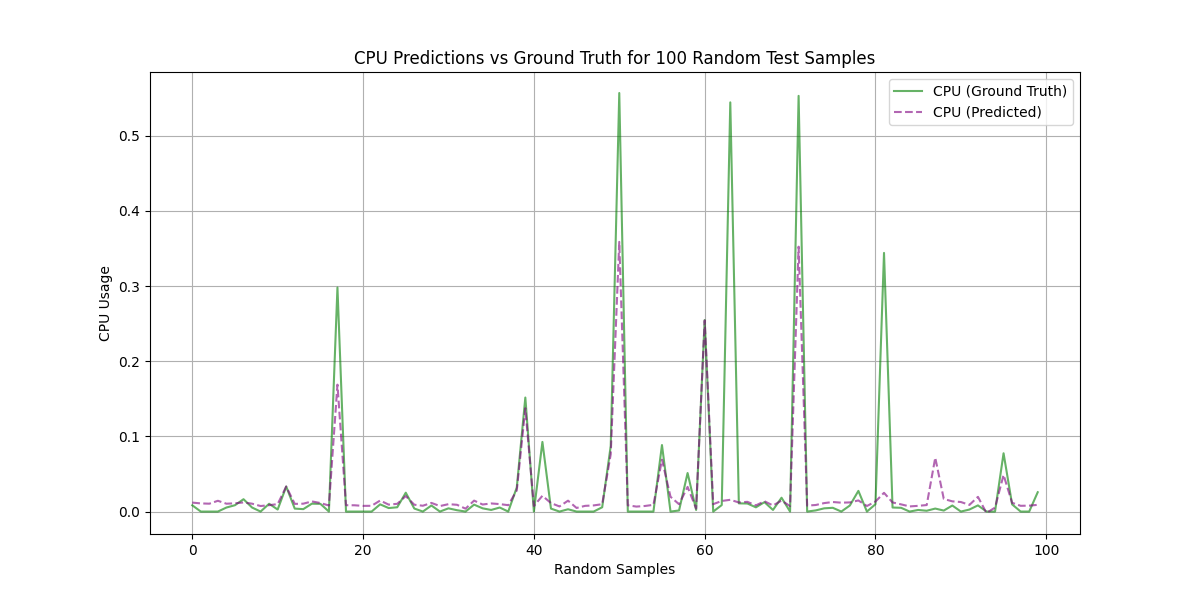
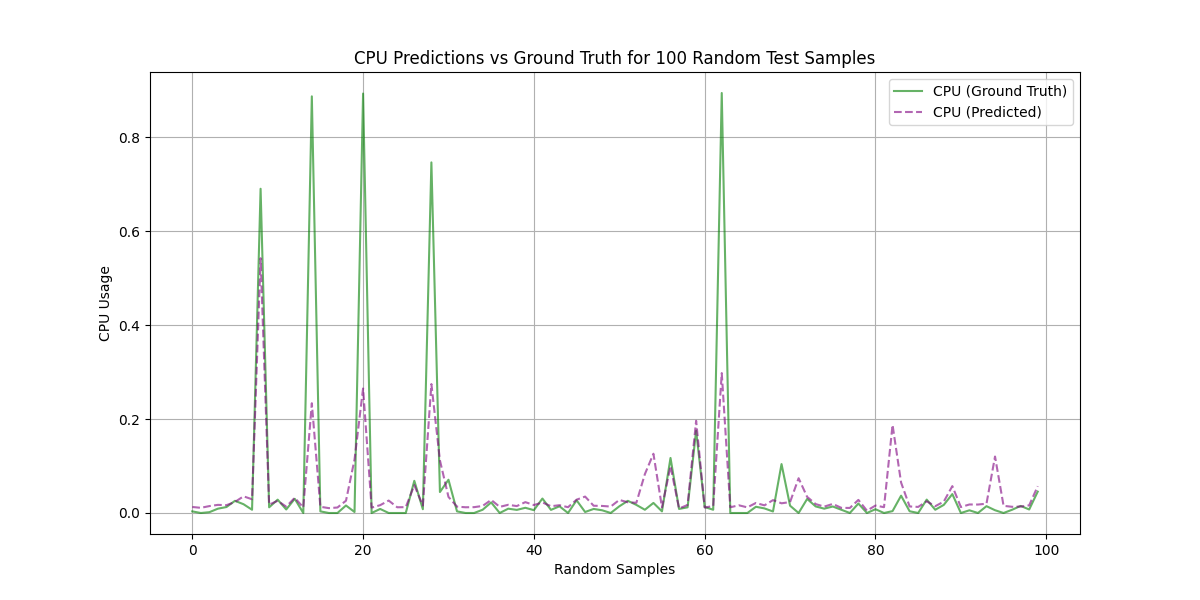
Update test.py and ADD save_test_set.py

diff --git a/test.py b/test.py
@@ -4,7 +4,6 @@ import numpy as np
 import torch
 import torch.utils.data as data
 import matplotlib.pyplot as plt
-from data import load_data, scale_data, create_sequences
 from myLSTM import LSTMModel
 from myFFNN import FFNNModel
 from myGRU import GRUModel
@@ -46,15 +45,14 @@ def main(model_type):
     sequence_length = 99
     batch_size = 64
 
-    # Load and preprocess data
-    filename = 'workload_series.npy'
-    data_reshaped = load_data(filename)
-    data_scaled, scaler = scale_data(data_reshaped)
-    X, y = create_sequences(data_scaled, sequence_length, 1)
+    # Load the test set from .npy files
+    save_dir = 'TestSet'
+    X_test = np.load(os.path.join(save_dir, 'X_test.npy'))
+    y_test = np.load(os.path.join(save_dir, 'y_test.npy'))
 
     # Convert to PyTorch tensors
-    X_tensor = torch.from_numpy(X).float()
-    y_tensor = torch.from_numpy(y).float()
+    X_tensor = torch.from_numpy(X_test).float()
+    y_tensor = torch.from_numpy(y_test).float()
 
     # Create dataset and dataloader
     dataset = data.TensorDataset(X_tensor, y_tensor)
@@ -78,8 +76,13 @@ def main(model_type):
             ground_truth.extend(y_batch.numpy())
 
     # Rescale predictions and ground truth
-    predictions_rescaled = scaler.inverse_transform(np.array(predictions).reshape(-1, output_size))
-    ground_truth_rescaled = scaler.inverse_transform(np.array(ground_truth).reshape(-1, output_size))
+    scaler = None  # You can load your scaler if necessary
+    # predictions_rescaled = scaler.inverse_transform(np.array(predictions).reshape(-1, output_size))
+    # ground_truth_rescaled = scaler.inverse_transform(np.array(ground_truth).reshape(-1, output_size))
+    
+    # For simplicity, we will assume no scaling is required
+    predictions_rescaled = np.array(predictions).reshape(-1, output_size)
+    ground_truth_rescaled = np.array(ground_truth).reshape(-1, output_size)
 
     # Calculate RMSE for each metric
     metric_names = ['CPU', 'Memory', 'Disk Write', 'Network Received']

diff --git a/save_test_set.py b/save_test_set.py
@@ -1,0 +1,31 @@
+import os
+import numpy as np
+from data import load_data, scale_data, create_sequences
+
+def save_test_set():
+    # Hyperparameters
+    sequence_length = 99
+    train_test_ratio = 0.8
+
+    # Load and preprocess data
+    filename = 'workload_series.npy'
+    data_reshaped = load_data(filename)
+    data_scaled, _ = scale_data(data_reshaped)  # No need for scaler in this case
+    X, y = create_sequences(data_scaled, sequence_length, 1)
+
+    # Split the data into training and testing sets
+    train_size = int(len(X) * train_test_ratio)
+    X_test, y_test = X[train_size:], y[train_size:]
+
+    # Save the test set as .npy files
+    save_dir = 'TestSet'
+    if not os.path.exists(save_dir):
+        os.makedirs(save_dir)
+
+    np.save(os.path.join(save_dir, 'X_test.npy'), X_test)
+    np.save(os.path.join(save_dir, 'y_test.npy'), y_test)
+
+    print(f'Test set saved as .npy files in the {save_dir} directory.')
+
+if __name__ == "__main__":
+    save_test_set()
